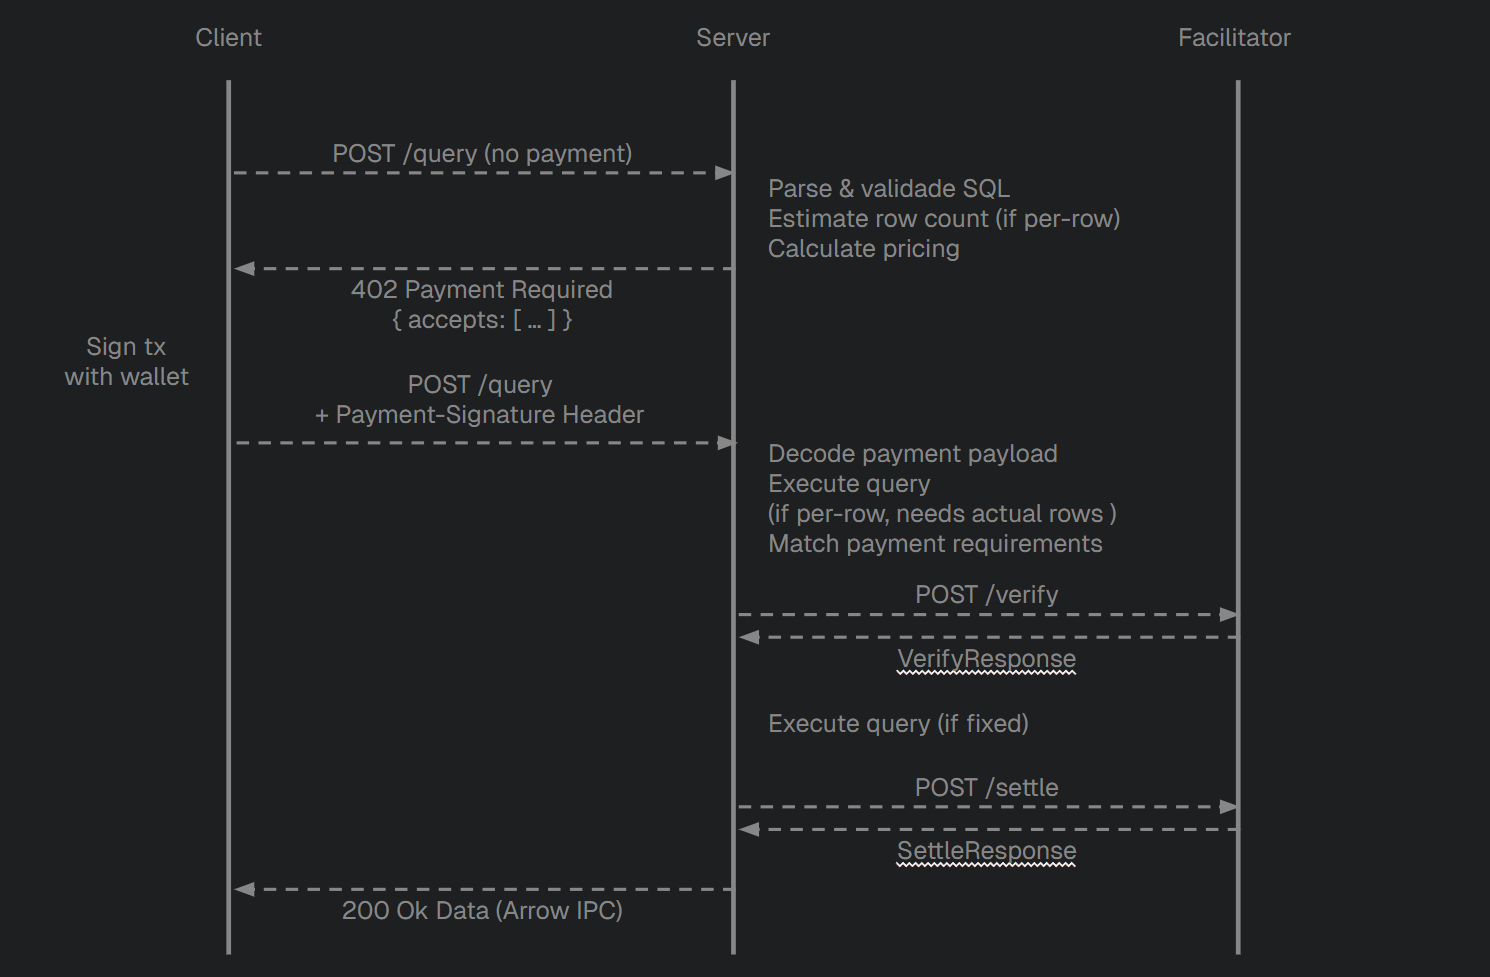
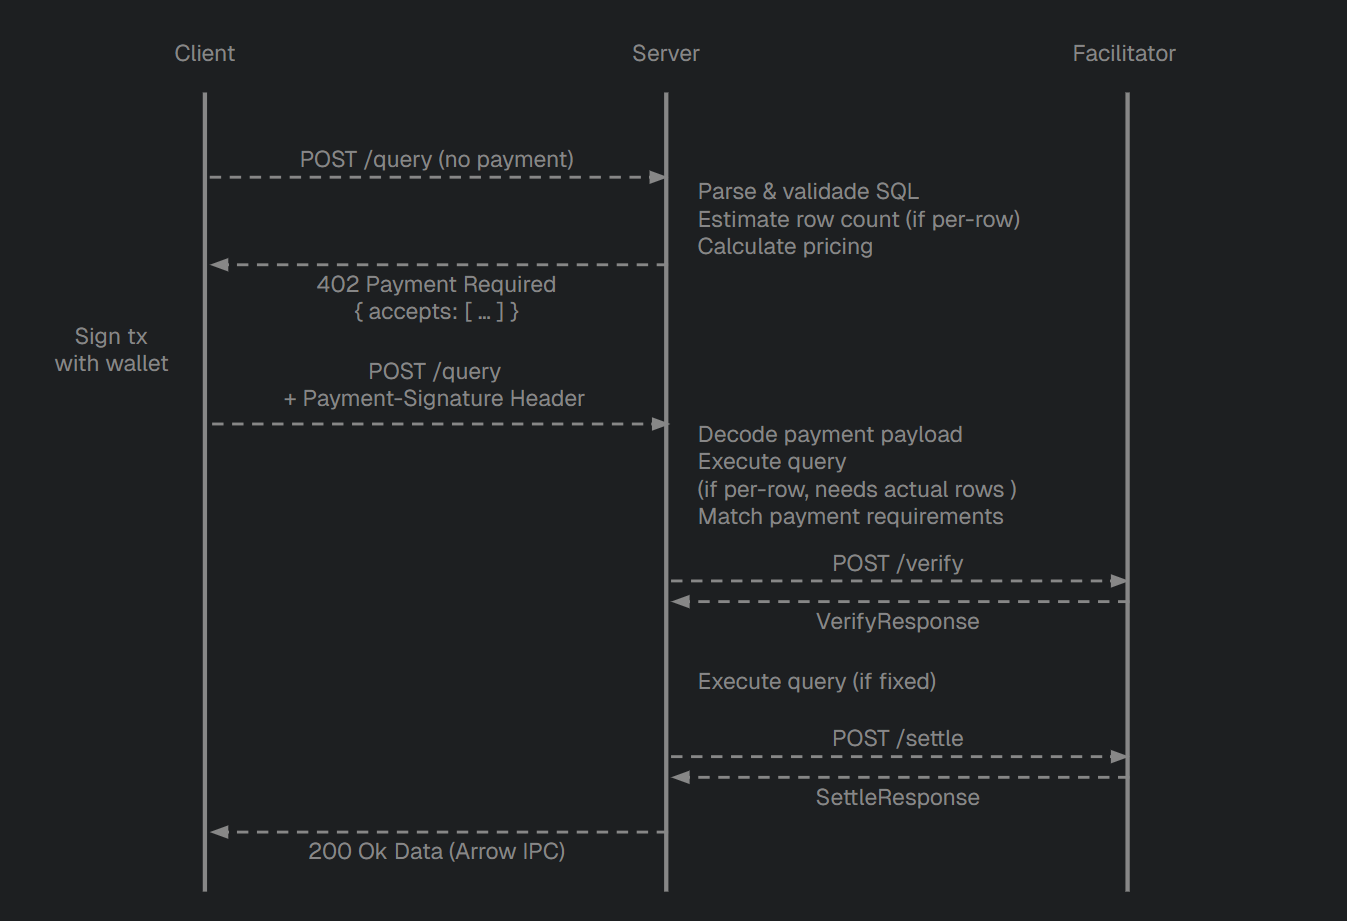
new images

diff --git a/README.md b/README.md
@@ -109,7 +109,7 @@ dashboard: # Optional
       description: "Description text for the dashboard"
       tags: ["Tag1", "Tag2"]
 ```
-4. Create the dashboards:
+3. Create the dashboards:
 
 Scaffold all dashboards defined in the YAML:
 
@@ -131,7 +131,7 @@ Once the dashboard is ready, build it into a static site:
 The server will pick up and serve the built files automatically. Dashboards are static — they do not update live. Rebuild whenever the underlying data changes.
 
 
-5. Start the server:
+4. Start the server:
 
 ```bash
 tiders-x402-server start

diff --git a/cli-python/README.md b/cli-python/README.md
@@ -61,7 +61,7 @@ dashboard: # Optional
       description: "Description text for the dashboard"
       tags: ["Tag1", "Tag2"]
 ```
-4. Create the dashboards:
+3. Create the dashboards:
 
 Scaffold all dashboards defined in the YAML:
 
@@ -83,7 +83,7 @@ Once the dashboard is ready, build it into a static site:
 The server will pick up and serve the built files automatically. Dashboards are static — they do not update live. Rebuild whenever the underlying data changes.
 
 
-5. Start the server:
+4. Start the server:
 
 ```bash
 tiders-x402-server start
